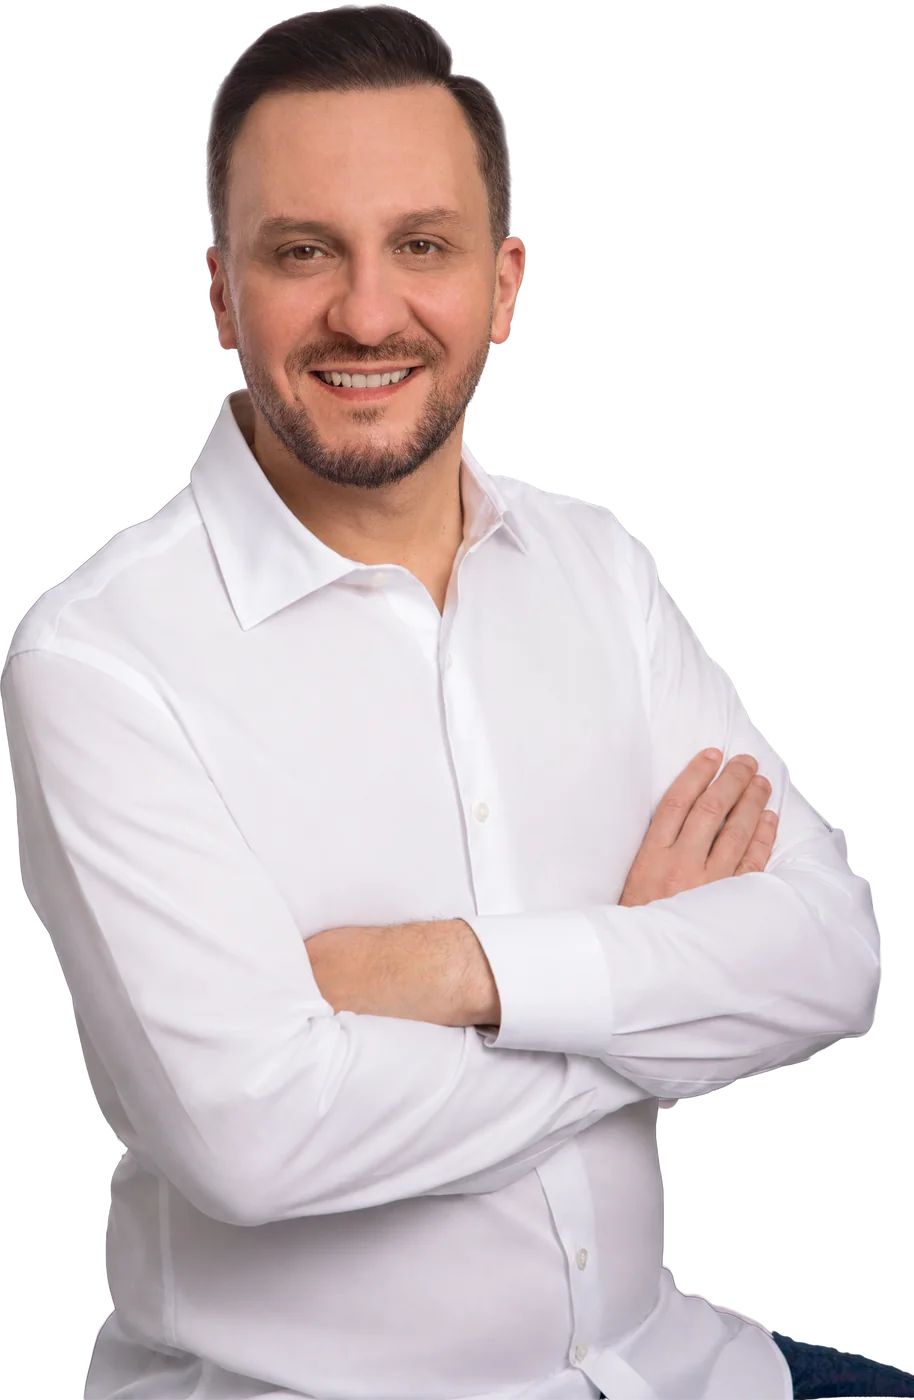
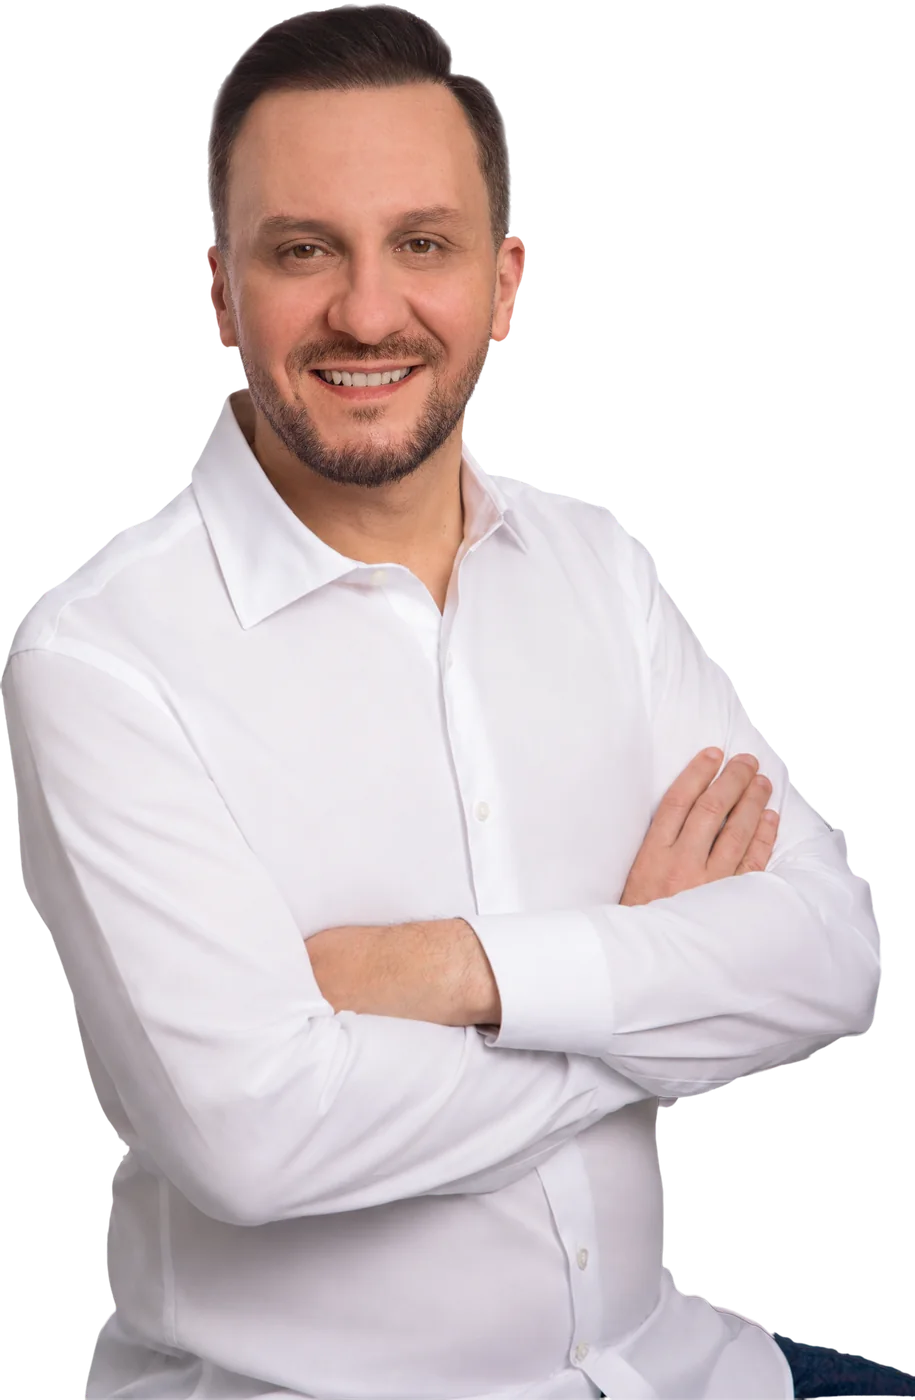
Limpa a franja do recorte e amplia o retrato no hero
O PNG da agência tinha ~13 mil pixels de borda semi-transparente ainda
contaminados pelo fundo branco do estúdio. Sobre o azul da identidade isso
virava uma franja clara em volta do cabelo e dos ombros — visível a olho
nu quando a foto é composta sobre magenta. Erodir o alpha em 2px corta a
franja; 3px começa a roer o contorno e 1px não resolve.

O busto passa a descartar 10% do topo, onde só havia espaço morto em volta
da cabeça, e o hero cede mais largura à coluna do retrato, com sangria à
direita. O rosto lê bem maior sem que a marca perca espaço.

O cartão de compartilhamento passa a usar o busto em vez do corpo inteiro:
na lista de conversas do WhatsApp ele aparece com uns 300px de largura, e
de corpo inteiro o rosto virava um ponto.

diff --git a/index.html b/index.html
@@ -200,9 +200,11 @@
 
     /* ── Hero ───────────────────────────────────────────────── */
     .hero { position: relative; padding: 128px 0 0; overflow: hidden; }
+    /* A coluna do retrato ganha mais espaço que a do texto: o busto entra
+       cortado na cintura, então precisa de largura para o rosto ler grande. */
     .hero-grade {
-      display: grid; grid-template-columns: 1.05fr .95fr;
-      gap: 26px; align-items: end;
+      display: grid; grid-template-columns: .92fr 1.08fr;
+      gap: 18px; align-items: end;
     }
     .hero-texto { padding-bottom: clamp(48px, 7vw, 96px); }
     .hero-sobre {
@@ -223,7 +225,14 @@
     .hero-sub { font-size: 16.5px; color: var(--cor-texto-suave); margin: 0 0 30px; max-width: 46ch; }
     .hero-botoes { display: flex; flex-wrap: wrap; gap: 12px; }
 
-    .hero-foto { position: relative; align-self: end; }
+    /* Sangra para fora do wrap à direita e abaixo do topo do grid: com o busto
+       cortado na cintura, deixar o retrato preso à coluna o faria parecer
+       pequeno no meio do azul. */
+    .hero-foto {
+      position: relative; align-self: end;
+      margin-right: clamp(-70px, -4vw, 0px);
+      margin-top: -70px;
+    }
     .hero-foto img {
       width: 100%; height: auto; display: block;
       filter: drop-shadow(0 32px 60px rgba(0,0,0,.5));
@@ -244,7 +253,7 @@
       .rotulo, .hero-botoes { justify-content: center; }
       .hero-marca img { width: min(360px, 82%); margin-inline: auto; }
       .hero-sub { margin-inline: auto; }
-      .hero-foto { width: min(430px, 92%); margin-inline: auto; }
+      .hero-foto { width: min(480px, 100%); margin-inline: auto; margin-right: auto; margin-top: -20px; }
     }
 
     /* ── Faixa de números ───────────────────────────────────── */
@@ -486,7 +495,7 @@
       <div class="hero-foto">
         <img src="assets/brand/foto/pepe-busto-1400.webp"
              alt="Pepê Collaço, de camisa branca e braços cruzados, sorrindo"
-             width="1088" height="1400" fetchpriority="high" />
+             width="1193" height="1400" fetchpriority="high" />
       </div>
     </div>
   </div>
